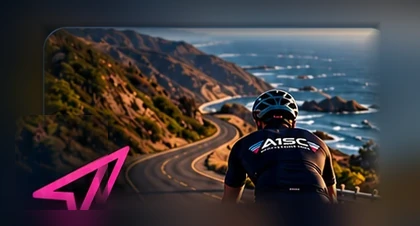
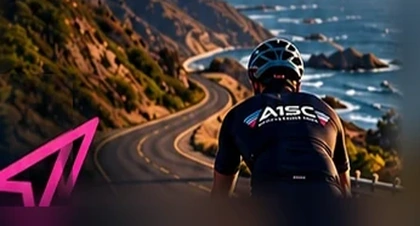
Add files via upload

diff --git a/index.html b/index.html
@@ -125,6 +125,30 @@ html:has(#fitclimb.visible){scroll-snap-type:y proximity;scroll-padding-top:12px
   background-image:none!important;box-shadow:none!important;
   text-shadow:0 1px 2px rgba(0,0,0,.85),0 2px 5px rgba(0,0,0,.65)!important;
 }
+
+/* Step 18J: Move/Run original photographs had a framed inset and horizontal top highlight baked into the image. Cropped assets below remove that framing. Same single-layer rendering as other four cards. */
+#landing .refreshed-grid .module.move-card,
+#landing .refreshed-grid .module[data-module="run"]{
+ background-color:#12283d!important;
+ background-repeat:no-repeat!important;
+ background-size:cover!important;
+ background-position:center center!important;
+}
+#landing .refreshed-grid .module.move-card{background-image:url("home-images/move.webp?v=18j")!important}
+#landing .refreshed-grid .module[data-module="run"]{background-image:url("home-images/run.webp?v=18j")!important}
+#landing .refreshed-grid .module.move-card>img,
+#landing .refreshed-grid .module[data-module="run"]>img{display:none!important}
+#landing .refreshed-grid .module.move-card::before,
+#landing .refreshed-grid .module.move-card::after,
+#landing .refreshed-grid .module[data-module="run"]::before,
+#landing .refreshed-grid .module[data-module="run"]::after{content:none!important;display:none!important}
+#landing .refreshed-grid .module.move-card .module-content,
+#landing .refreshed-grid .module[data-module="run"] .module-content{
+ position:relative!important;z-index:2!important;
+ background:none!important;background-color:transparent!important;
+ background-image:none!important;box-shadow:none!important;
+ text-shadow:0 1px 2px rgba(0,0,0,.85),0 2px 5px rgba(0,0,0,.65)!important;
+}
 </style><style>
 .move-launch{display:flex;flex-wrap:wrap;align-items:center;gap:12px;margin:15px 0;padding:14px 16px;background:#14273e;border:1px solid #4271a0;border-radius:16px;color:#fff;text-decoration:none;box-shadow:0 8px 18px #0004}
 .move-launch-brand{display:flex;flex-direction:column;min-width:90px;line-height:1}.move-launch-brand strong{font-size:26px;font-weight:850;font-style:italic;letter-spacing:.03em}.move-launch-brand small{color:#ff5aa6;font-weight:800;font-size:10px;margin-top:5px}

diff --git a/sw.js b/sw.js
@@ -1,5 +1,5 @@
 
-const CACHE = 'trainlab-v2.93-single-layer-fullbleed-18i';
+const CACHE = 'trainlab-v2.94-move-run-inset-removed-18j';
 
 const ASSETS = [
   './',
